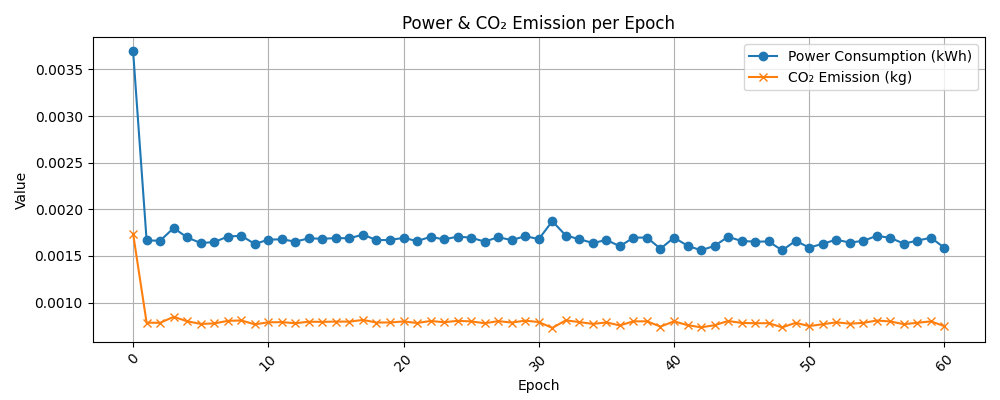
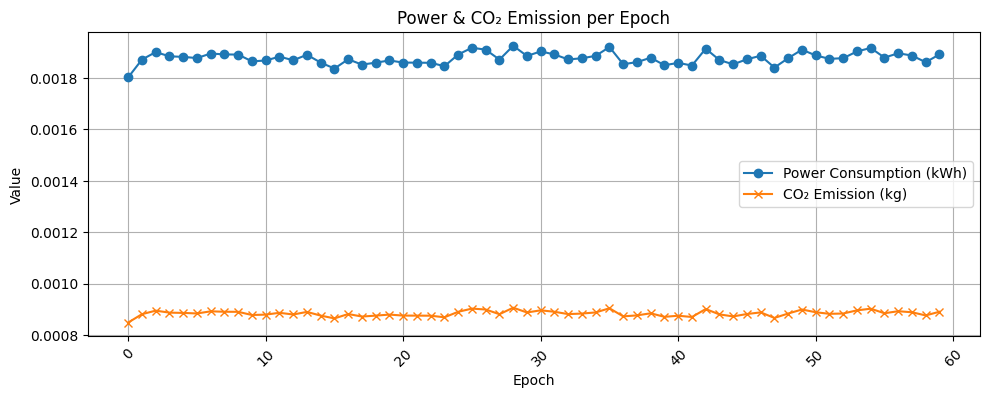
refactor: eco2ai for unet on kaggle

diff --git a/Models/unet/README.md b/Models/unet/README.md
@@ -71,9 +71,9 @@ Update the corresponding variables in the code to reflect your drive path.
 | Dice Coefficient  | 0.779       |
 | Parameters        | 31,036,481  |
 | MACs              | 54.69 GMac  |
-| Power             | 0.1039 kWh  |
-| CO2 emission      | 0.0488 kg   |
-| Training Duration | 4123.16 seconds |
+| Power             |  0.1126 kWh  |
+| CO2 emission      |  0.0530 kg   |
+| Training Duration | 4654.17 seconds |
 
 ### Qualitative Results
 
